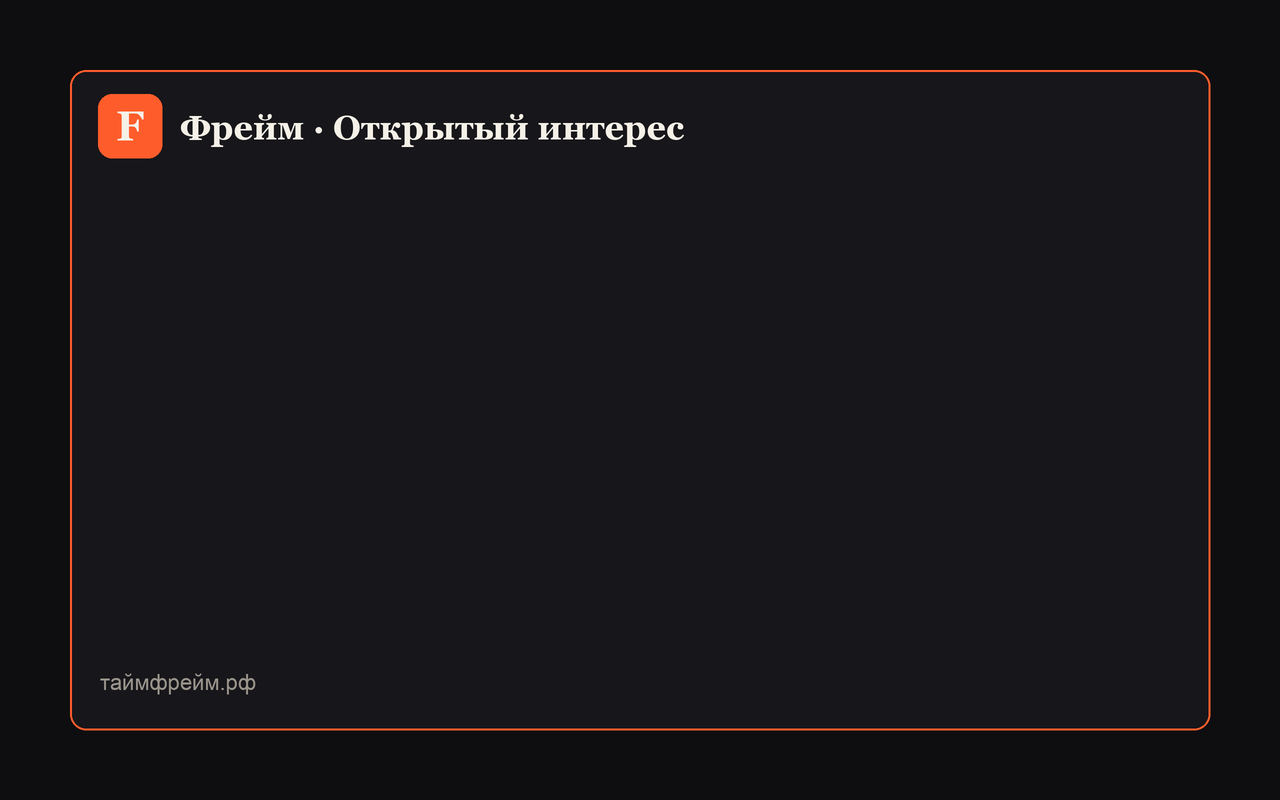
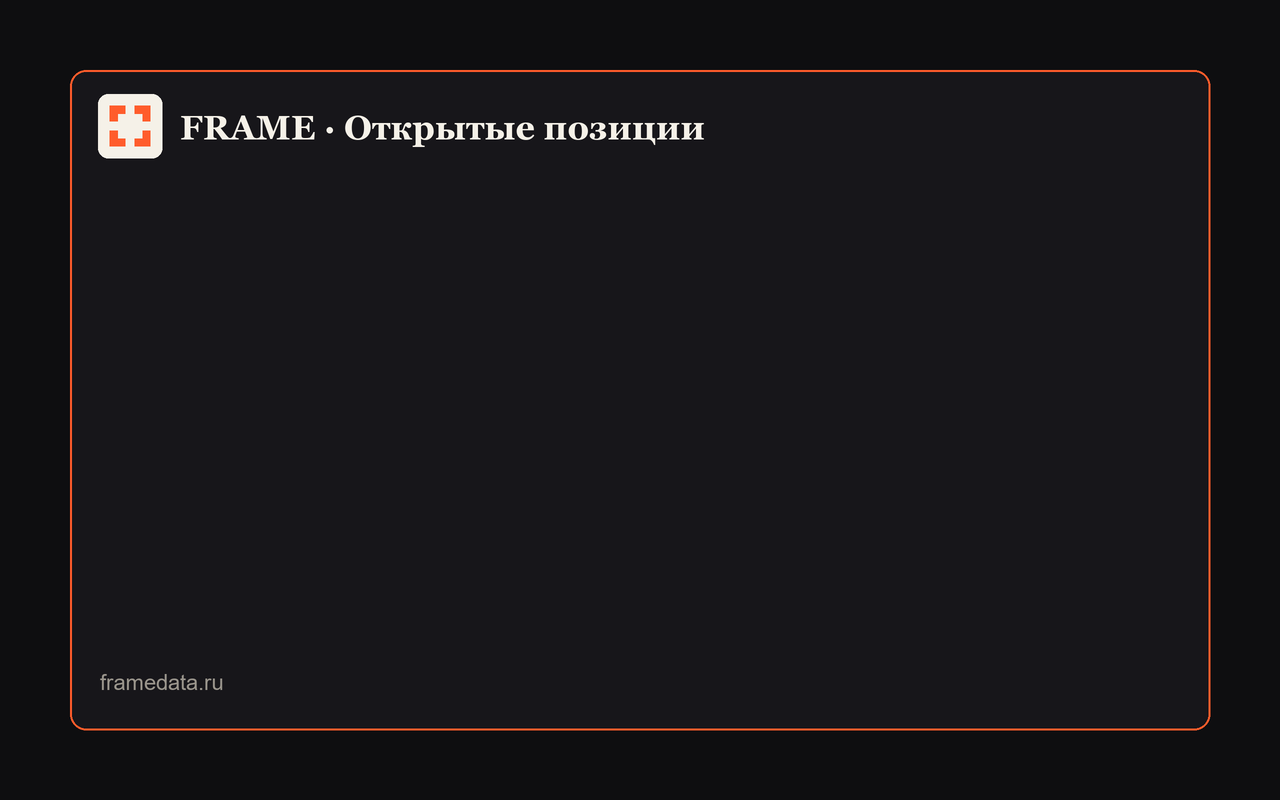
ext: обновить бренд расширения — FRAME, фирменный знак, framedata.ru
Листинг в Chrome Web Store висел на старой версии: логотип «F» с засечкой,
название и описание кириллицей, домен таймфрейм.рф, 7 индикаторов.

- иконки 16/48/128 перегенерены из фирменного знака «рамка» (icon-512.svg)
- manifest: FRAME вместо Фрейм, версия 0.7.1, убран host_permission на
  старый домен xn--80aklbnczmv.xn--p1ai
- popup/content/widget: подписи FRAME
- промо-графика (tile/marquee/hero) на новом знаке, 9 индикаторов
- LISTING.md: FRAME, актуальный список индикаторов, поле Website,
  пометка что описание и Website правятся руками в дашборде

Changed region(s): [[0.0625, 0.0938, 0.5625, 0.2188], [0.0625, 0.8438, 0.2188, 0.875]]

diff --git a/extension/src/popup.html b/extension/src/popup.html
@@ -3,7 +3,7 @@
 <head>
   <meta charset="utf-8" />
   <meta name="viewport" content="width=device-width, initial-scale=1" />
-  <title>Фрейм</title>
+  <title>FRAME</title>
   <style>
     :root { --bg:#0E0E10; --panel:#17161A; --text:#F5F1E8; --dim:#9A958C; --accent:#FF5C2B; --border:#F5F1E8; --ok:#4A9268; }
     * { box-sizing: border-box; }
@@ -36,8 +36,8 @@
   </style>
 </head>
 <body>
-  <div class="hd"><span class="dot"></span><span class="logo">Фрейм</span></div>
-  <p>Индикаторы Фрейм плавающим окном поверх терминала Т-Инвестиций.</p>
+  <div class="hd"><span class="dot"></span><span class="logo">FRAME</span></div>
+  <p>Индикаторы FRAME плавающим окном поверх терминала Т-Инвестиций.</p>
 
   <label class="lbl" for="tok">PRO-токен</label>
   <input id="tok" class="inp" type="text" placeholder="ext_…" autocomplete="off" spellcheck="false" />

diff --git a/extension/src/widget.js b/extension/src/widget.js
@@ -278,7 +278,7 @@
       var bClose = h('button', { class: 'fw-btn', 'data-a': 'close', title: 'Закрыть', text: '×' });
       var ctrls = h('span', { class: 'fw-ctrls' }, [bPop, bTheme, bClose]);
       var head = h('div', { class: 'fw-head' }, [dot, title, beta, ctrls]);
-      var iframe = h('iframe', { class: 'fw-iframe', title: 'Фрейм · ' + ind.label });
+      var iframe = h('iframe', { class: 'fw-iframe', title: 'FRAME · ' + ind.label });
       var body = h('div', { class: 'fw-body' }, [iframe]);
       var resize = h('div', { class: 'fw-resize' });
       var el = h('div', { class: 'fw panel fw-panel', 'data-theme': st.theme }, [head, body, resize]);

diff --git a/extension/src/content.js b/extension/src/content.js
@@ -16,7 +16,7 @@
     var btn = document.createElement('button');
     btn.id = BTN_ID;
     btn.type = 'button';
-    btn.title = 'Фрейм — индикаторы';
+    btn.title = 'FRAME — индикаторы';
     // Минимал: квадрат с буквой «F» под сетку тулбара терминала (как «T+»).
     // Живёт в ИХ DOM, не в Shadow — стилизуем инлайном.
     var BORDER = 'rgba(245,241,232,0.28)';

diff --git a/scripts/gen-store-assets.py b/scripts/gen-store-assets.py
@@ -1,7 +1,7 @@
 #!/usr/bin/env python3
 """Промо-графика для Chrome Web Store (и каталога Яндекса).
 
-Генерит на editorial-палитре Фрейма:
+Генерит на editorial-палитре FRAME:
   - tile-440x280.png    — малый промо-тайл (Small promo tile)
   - marquee-1400x560.png — широкий баннер (Marquee promo tile)
   - hero-1280x800.png   — пустой кадр-подложка под скриншот (рамка + лого),
@@ -22,14 +22,26 @@ DIM = (154, 149, 140, 255)    # #9A958C
 SERIF = [
     '/System/Library/Fonts/Supplemental/Georgia Bold.ttf',
     '/System/Library/Fonts/Supplemental/Times New Roman Bold.ttf',
+    'C:/Windows/Fonts/georgiab.ttf',
+    'C:/Windows/Fonts/timesbd.ttf',
 ]
 SANS = [
     '/System/Library/Fonts/Supplemental/Arial Bold.ttf',
     '/System/Library/Fonts/Helvetica.ttc',
+    'C:/Windows/Fonts/arialbd.ttf',
 ]
 SANS_REG = [
     '/System/Library/Fonts/Supplemental/Arial.ttf',
     '/System/Library/Fonts/Helvetica.ttc',
+    'C:/Windows/Fonts/arial.ttf',
+]
+
+# Фирменный знак «рамка»: четыре уголка в сетке 0..32 (см. frontend/public/icon-512.svg).
+MARK_CORNERS = [
+    [(3, 3), (13, 3), (13, 8), (8, 8), (8, 13), (3, 13)],
+    [(29, 3), (19, 3), (19, 8), (24, 8), (24, 13), (29, 13)],
+    [(3, 29), (13, 29), (13, 24), (8, 24), (8, 19), (3, 19)],
+    [(29, 29), (19, 29), (19, 24), (24, 24), (24, 19), (29, 19)],
 ]
 
 
@@ -44,12 +56,12 @@ def font(paths, sz):
 
 
 def logo(d, x, y, s):
-    """Рыжий скруглённый квадрат с засечной «F» (как иконка расширения)."""
-    d.rounded_rectangle([x, y, x + s, y + s], radius=int(s * 0.22), fill=PUMPKIN)
-    f = font(SERIF, int(s * 0.66))
-    bbox = d.textbbox((0, 0), 'F', font=f)
-    w, h = bbox[2] - bbox[0], bbox[3] - bbox[1]
-    d.text((x + (s - w) / 2 - bbox[0], y + (s - h) / 2 - bbox[1]), 'F', font=f, fill=CREAM)
+    """Фирменный знак: кремовый скруглённый квадрат с рыжими уголками (как иконка расширения)."""
+    d.rounded_rectangle([x, y, x + s, y + s], radius=int(s * 80 / 512), fill=CREAM)
+    pad = s * 56 / 512
+    unit = (s - 2 * pad) / 32
+    for poly in MARK_CORNERS:
+        d.polygon([(x + pad + px * unit, y + pad + py * unit) for px, py in poly], fill=PUMPKIN)
 
 
 def decorative_line(d, x0, y0, x1, baseline, amp, color, width, seed):
@@ -79,7 +91,7 @@ def make_tile():
     s = int(96 * SS)
     logo(d, int(40 * SS), int(44 * SS), s)
     tf = font(SERIF, int(40 * SS))
-    d.text((int(40 * SS), int(160 * SS)), 'Фрейм', font=tf, fill=CREAM)
+    d.text((int(40 * SS), int(160 * SS)), 'FRAME', font=tf, fill=CREAM)
     sf = font(SANS_REG, int(17 * SS))
     d.text((int(42 * SS), int(212 * SS)), 'Аналитика в терминале', font=sf, fill=DIM)
     d.text((int(42 * SS), int(236 * SS)), 'Т-Инвестиций', font=sf, fill=DIM)
@@ -98,12 +110,12 @@ def make_marquee():
     s = int(150 * SS)
     logo(d, int(90 * SS), int(120 * SS), s)
     tf = font(SERIF, int(86 * SS))
-    d.text((int(270 * SS), int(120 * SS)), 'Фрейм', font=tf, fill=CREAM)
+    d.text((int(270 * SS), int(120 * SS)), 'FRAME', font=tf, fill=CREAM)
     sf = font(SANS, int(34 * SS))
     d.text((int(274 * SS), int(238 * SS)), 'Индикаторы прямо в терминале', font=sf, fill=CREAM)
     sf2 = font(SANS_REG, int(28 * SS))
     d.text((int(274 * SS), int(290 * SS)), 'Т-Инвестиций — открытые позиции, сезонность,', font=sf2, fill=DIM)
-    d.text((int(274 * SS), int(326 * SS)), 'потоки фондов и ещё 4 индикатора', font=sf2, fill=DIM)
+    d.text((int(274 * SS), int(326 * SS)), 'потоки фондов и ещё 6 индикаторов', font=sf2, fill=DIM)
     # кромка снизу
     d.rectangle([0, H - 10 * SS, W, H], fill=PUMPKIN)
     return img.resize((1400, 560), Image.LANCZOS)
@@ -120,7 +132,7 @@ def make_hero():
     s = int(64 * SS)
     logo(d, pad + int(28 * SS), pad + int(24 * SS), s)
     tf = font(SERIF, int(34 * SS))
-    d.text((pad + int(110 * SS), pad + int(38 * SS)), 'Фрейм · Открытые позиции', font=tf, fill=CREAM)
+    d.text((pad + int(110 * SS), pad + int(38 * SS)), 'FRAME · Открытые позиции', font=tf, fill=CREAM)
     sf = font(SANS_REG, int(22 * SS))
     d.text((pad + int(30 * SS), H - pad - int(60 * SS)), 'framedata.ru', font=sf, fill=DIM)
     return img.resize((1280, 800), Image.LANCZOS)

diff --git a/scripts/gen-ext-icons.py b/scripts/gen-ext-icons.py
@@ -1,46 +1,33 @@
 #!/usr/bin/env python3
-"""Генератор иконок расширения Фрейм: рыжий скруглённый квадрат с засечной «F».
-Один источник правды для 16/48/128. Перегенерить: python3 scripts/gen-ext-icons.py
+"""Генератор иконок расширения FRAME: фирменный знак «рамка» из четырёх уголков.
+Источник правды — frontend/public/icon-512.svg (тот же знак, те же цвета).
+Перегенерить: python3 scripts/gen-ext-icons.py
 """
-from PIL import Image, ImageDraw, ImageFont
+from PIL import Image, ImageDraw
 import os
 
 PUMPKIN = (255, 92, 43, 255)
-CREAM = (245, 241, 232, 255)
+CREAM = (244, 241, 234, 255)
 
-FONT_PATHS = [
-    '/System/Library/Fonts/Supplemental/Georgia Bold.ttf',
-    '/System/Library/Fonts/Supplemental/Georgia.ttf',
-    '/System/Library/Fonts/Supplemental/Times New Roman Bold.ttf',
-    '/System/Library/Fonts/Supplemental/Times New Roman.ttf',
-    '/System/Library/Fonts/Supplemental/Arial Bold.ttf',
-    '/System/Library/Fonts/Helvetica.ttc',
+# Уголки в системе координат 0..32 (как в icon-512.svg), знак вписан с отступом 56/512.
+CORNERS = [
+    [(3, 3), (13, 3), (13, 8), (8, 8), (8, 13), (3, 13)],
+    [(29, 3), (19, 3), (19, 8), (24, 8), (24, 13), (29, 13)],
+    [(3, 29), (13, 29), (13, 24), (8, 24), (8, 19), (3, 19)],
+    [(29, 29), (19, 29), (19, 24), (24, 24), (24, 19), (29, 19)],
 ]
 
 
-def get_font(sz):
-    for p in FONT_PATHS:
-        if os.path.exists(p):
-            try:
-                return ImageFont.truetype(p, sz)
-            except Exception:
-                pass
-    return ImageFont.load_default()
-
-
 def make(size):
-    # Супер-сэмплинг ×4 → гладкие края при даунскейле.
-    s = size * 4
+    # Супер-сэмплинг ×8 → гладкие края при даунскейле.
+    s = size * 8
     img = Image.new('RGBA', (s, s), (0, 0, 0, 0))
     d = ImageDraw.Draw(img)
-    d.rounded_rectangle([0, 0, s - 1, s - 1], radius=int(s * 0.22), fill=PUMPKIN)
-    f = get_font(int(s * 0.66))
-    txt = 'F'
-    bbox = d.textbbox((0, 0), txt, font=f)
-    w, h = bbox[2] - bbox[0], bbox[3] - bbox[1]
-    x = (s - w) / 2 - bbox[0]
-    y = (s - h) / 2 - bbox[1]
-    d.text((x, y), txt, font=f, fill=CREAM)
+    d.rounded_rectangle([0, 0, s - 1, s - 1], radius=int(s * 80 / 512), fill=CREAM)
+    pad = s * 56 / 512
+    unit = (s - 2 * pad) / 32
+    for poly in CORNERS:
+        d.polygon([(pad + x * unit, pad + y * unit) for x, y in poly], fill=PUMPKIN)
     return img.resize((size, size), Image.LANCZOS)
 
 

diff --git a/extension/store/LISTING.md b/extension/store/LISTING.md
@@ -1,19 +1,28 @@
-# Chrome Web Store — листинг «Фрейм»
+# Chrome Web Store — листинг FRAME
 
 Готовые тексты для заливки в Developer Dashboard. Копируй как есть.
+
+> ⚠ Название, краткое описание и иконка подтягиваются из `extension/manifest.json` при заливке
+> пакета. Подробное описание, поле **Website** и скриншоты правятся **только руками** в
+> Developer Dashboard — авто-публиш их не трогает. После каждого релиза сверяй их с этим файлом.
 
 ---
 
 ## Название (Item name)
 ```
-Фрейм — индикаторы в терминале
+FRAME — индикаторы в терминале
 ```
 
 ## Краткое описание (Summary, ≤132 символа)
 ```
-Аналитические индикаторы Фрейм поверх веб-терминала Т-Инвестиций: открытые позиции, сезонность, потоки фондов и ещё 4.
+Аналитические индикаторы FRAME поверх веб-терминала Т-Инвестиций: открытые позиции, сезонность, потоки фондов и ещё 6.
 ```
-> 117 символов — влезает.
+> 118 символов — влезает.
+
+## Website (поле разработчика в дашборде)
+```
+https://framedata.ru
+```
 
 ## Категория
 **Workflow & Planning** (альтернатива — *Tools*). В Web Store нет «Финансы».
@@ -26,7 +35,7 @@
 ## Подробное описание (Description)
 
 ```
-Фрейм добавляет аналитические индикаторы Московской биржи прямо в веб-терминал
+FRAME добавляет аналитические индикаторы Московской биржи прямо в веб-терминал
 Т-Инвестиций — плавающими окнами поверх вашего рабочего пространства. Не нужно
 переключаться между вкладками: график торгуется в терминале, а рядом — открытые
 позиции, сезонность и потоки капитала.
@@ -37,10 +46,12 @@
 3. Перетаскивайте, меняйте размер, прилипайте к виджетам терминала. Откройте
    сколько угодно панелей одновременно.
 
-📊 7 индикаторов (полный функционал, как на сайте)
+📊 9 индикаторов (полный функционал, как на сайте)
 • Открытые позиции — лонги и шорты физлиц и юрлиц по фьючерсам (режимы, таймфреймы,
   экспирации, чистая позиция)
 • Сезонность — средние движения по дням недели/месяца и годовая сезонность
+• Скринер сигналов — рыночные экстремумы и развороты по всем активам сразу
+• Сигналы — оповещения по вашим условиям
 • Индикатор Баффетта — капитализация рынка к ВВП и к денежной массе M2
 • Сила рынка — доля акций выше скользящих EMA (breadth)
 • Фонды — приток и отток средств в БПИФ по категориям
@@ -52,7 +63,7 @@
 актива, таймфрейм, режим расчёта и т.д.
 
 🔒 Доступ
-Индикаторы доступны подписчикам Pro сервиса Фрейм. Токен генерируется в личном
+Индикаторы доступны подписчикам Pro сервиса FRAME. Токен генерируется в личном
 кабинете на framedata.ru и вставляется в окно расширения. Без токена панели
 показывают экран блокировки.
 
@@ -80,7 +91,7 @@
 ```
 Снимает заголовок Content-Security-Policy на страницах веб-терминала
 Т-Инвестиций, чтобы внутри терминала мог отрисоваться iframe с индикатором
-Фрейм (framedata.ru), который иначе блокируется политикой CSP терминала.
+FRAME (framedata.ru), который иначе блокируется политикой CSP терминала.
 Правило ограничено только URL терминала.
 ```
 
@@ -101,7 +112,7 @@
 
 **Single purpose (одно назначение)**
 ```
-Показывать аналитические индикаторы Фрейм плавающими панелями поверх
+Показывать аналитические индикаторы FRAME плавающими панелями поверх
 веб-терминала Т-Инвестиций.
 ```
 

diff --git a/extension/README.md b/extension/README.md
@@ -1,8 +1,8 @@
-# Фрейм — расширение для терминала Т-Инвестиций
+# FRAME — расширение для терминала Т-Инвестиций
 
-Плавающее окно с индикаторами Фрейм (таймфрейм.рф) поверх веб-терминала
+Плавающее окно с индикаторами FRAME (framedata.ru) поверх веб-терминала
 Т-Инвестиций. Форма — клон Trading Tools (перетаскиваемая панель + вкладки),
-дизайн — editorial Фрейма. MV3, работает во всех Chromium-браузерах
+дизайн — editorial FRAME. MV3, работает во всех Chromium-браузерах
 (Chrome, **Яндекс.Браузер**, Edge, Opera, Brave).
 
 > Полный план: `../.claude/TERMINAL_EXTENSION_PLAN.md`
@@ -18,13 +18,13 @@ src/popup.html/js    — popup по клику на иконку (TODO: логи
 dev-preview.html     — локальный предпросмотр окна без терминала
 ```
 
-Содержимое вкладок — iframe на `таймфрейм.рф/embed/<indicator>` (роуты во фронте
-Фрейма: `frontend/src/pages/embed/`).
+Содержимое вкладок — iframe на `framedata.ru/embed/<indicator>` (роуты во фронте
+FRAME: `frontend/src/pages/embed/`).
 
 ## Локальная разработка
 
 ```bash
-# 1) подними фронт Фрейма (embed-роуты)
+# 1) подними фронт FRAME (embed-роуты)
 cd frontend && npm run dev            # :5173
 
 # 2) предпросмотр окна
@@ -41,17 +41,17 @@ cd extension && python3 -m http.server 8910
 ## Статус (v1)
 
 - ✅ Плавающее окно: drag, resize, collapse, close + launcher, persist позиции/темы/вкладки.
-- ✅ 7 вкладок (2 группы), editorial-light/dark. (Карта рынка исключена из расширения.)
-- ✅ Все 7 embed-роутов **задеплоены на прод** (`таймфрейм.рф/embed/*`), работают с реальными данными.
+- ✅ 9 вкладок (3 группы), editorial-light/dark. (Карта рынка исключена из расширения.)
+- ✅ Все embed-роуты **задеплоены на прод** (`framedata.ru/embed/*`), работают с реальными данными.
 - ✅ **CSP терминала снимается через `declarativeNetRequest`** (rules.json) — frame-src tbank.ru
-  не содержит таймфрейм.рф (проверено чтением заголовка), без этого iframe блокируется.
+  не содержит framedata.ru (проверено чтением заголовка), без этого iframe блокируется.
 - ⏳ Реальный тест на залогиненном `tbank.ru/terminal` (load unpacked) + embed-auth для платных.
 
 ## TODO
 
 - **CSP терминала** — ✅ РЕШЕНО: `declarativeNetRequest` (permission + `rules.json`) снимает
   `Content-Security-Policy` на главном документе `/terminal/` (скоуп — только терминал). Нужно,
-  т.к. `frame-src` tbank.ru — строгий whitelist без таймфрейм.рф (проверено чтением заголовка
+  т.к. `frame-src` tbank.ru — строгий whitelist без framedata.ru (проверено чтением заголовка
   2026-06-04). Trade-off: на странице терминала CSP отключается целиком (хирургически править
   одну директиву DNR не умеет) — приемлемо для opt-in расширения. Финальная проверка — на
   живом залогиненном терминале.
